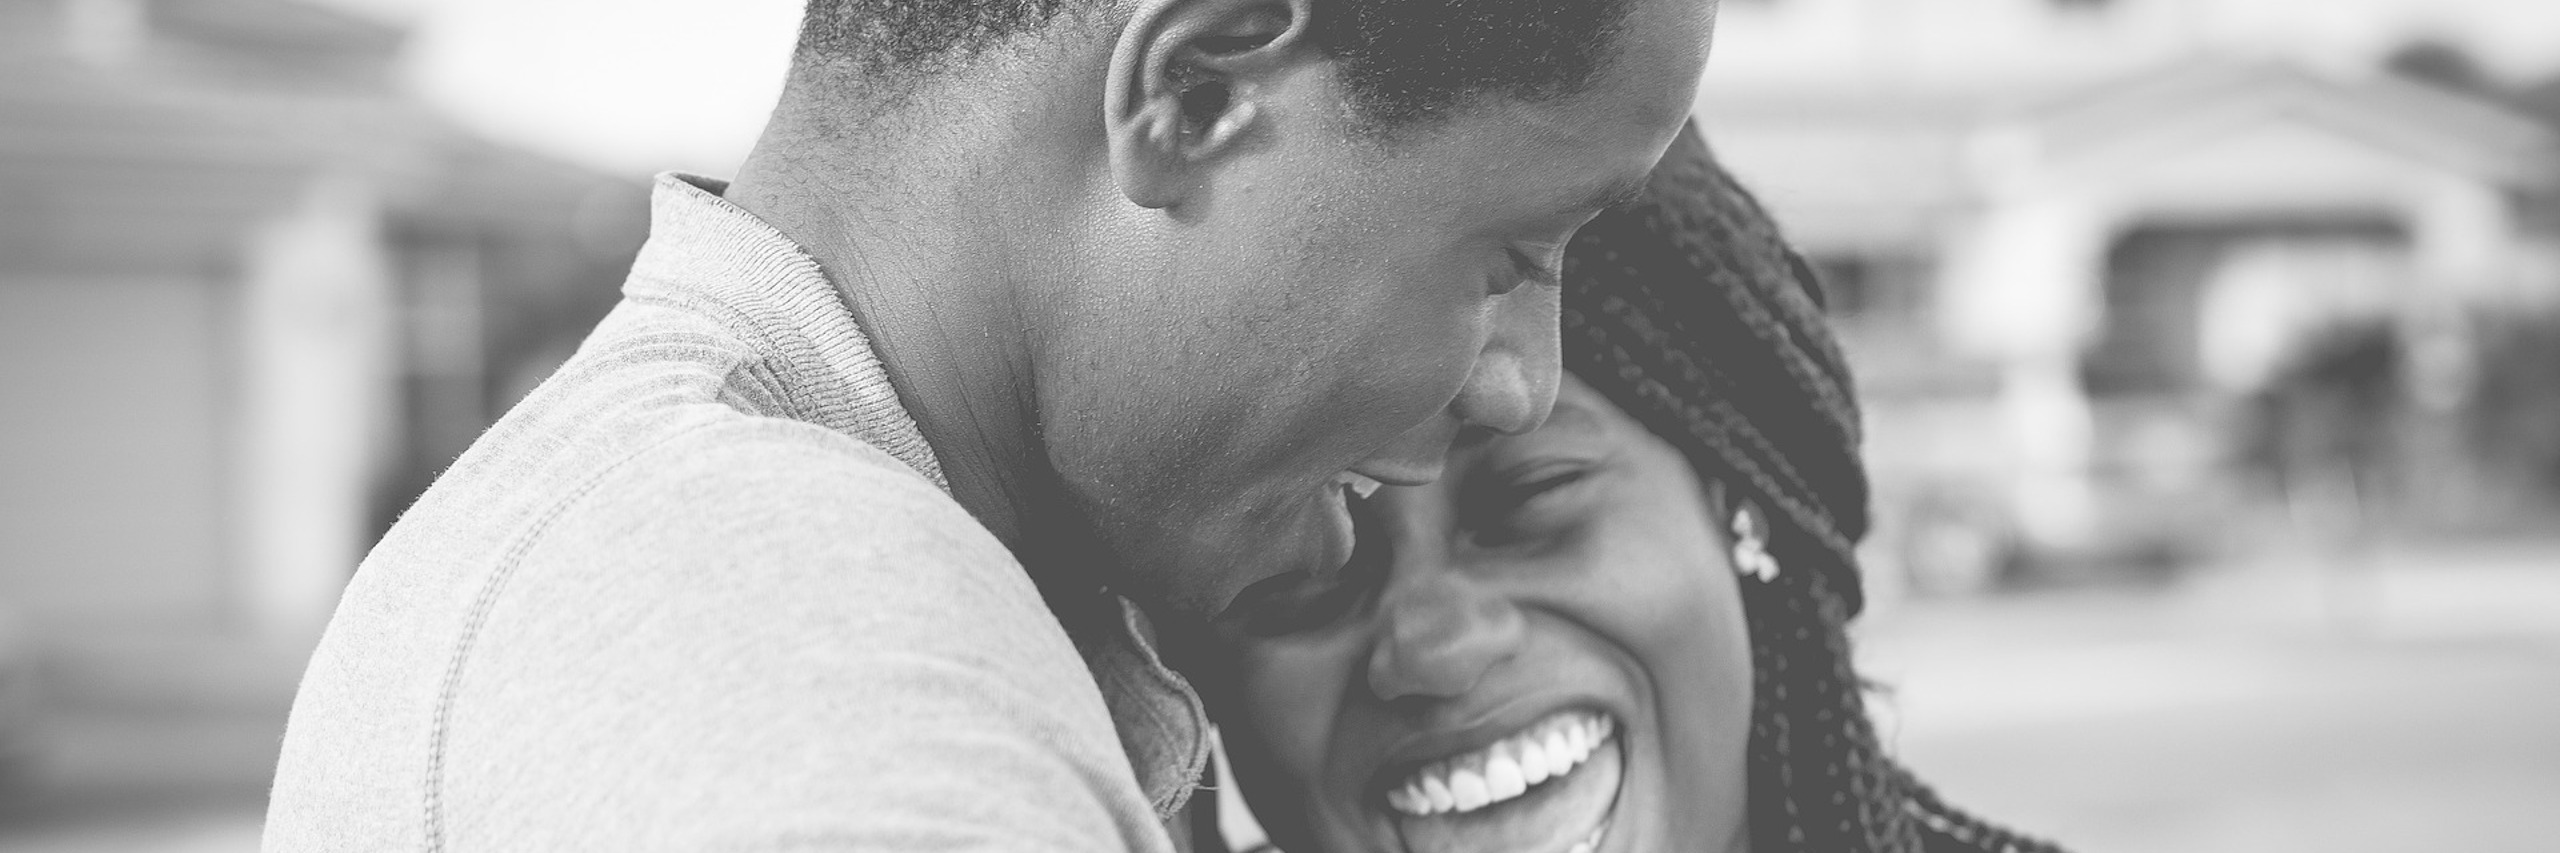
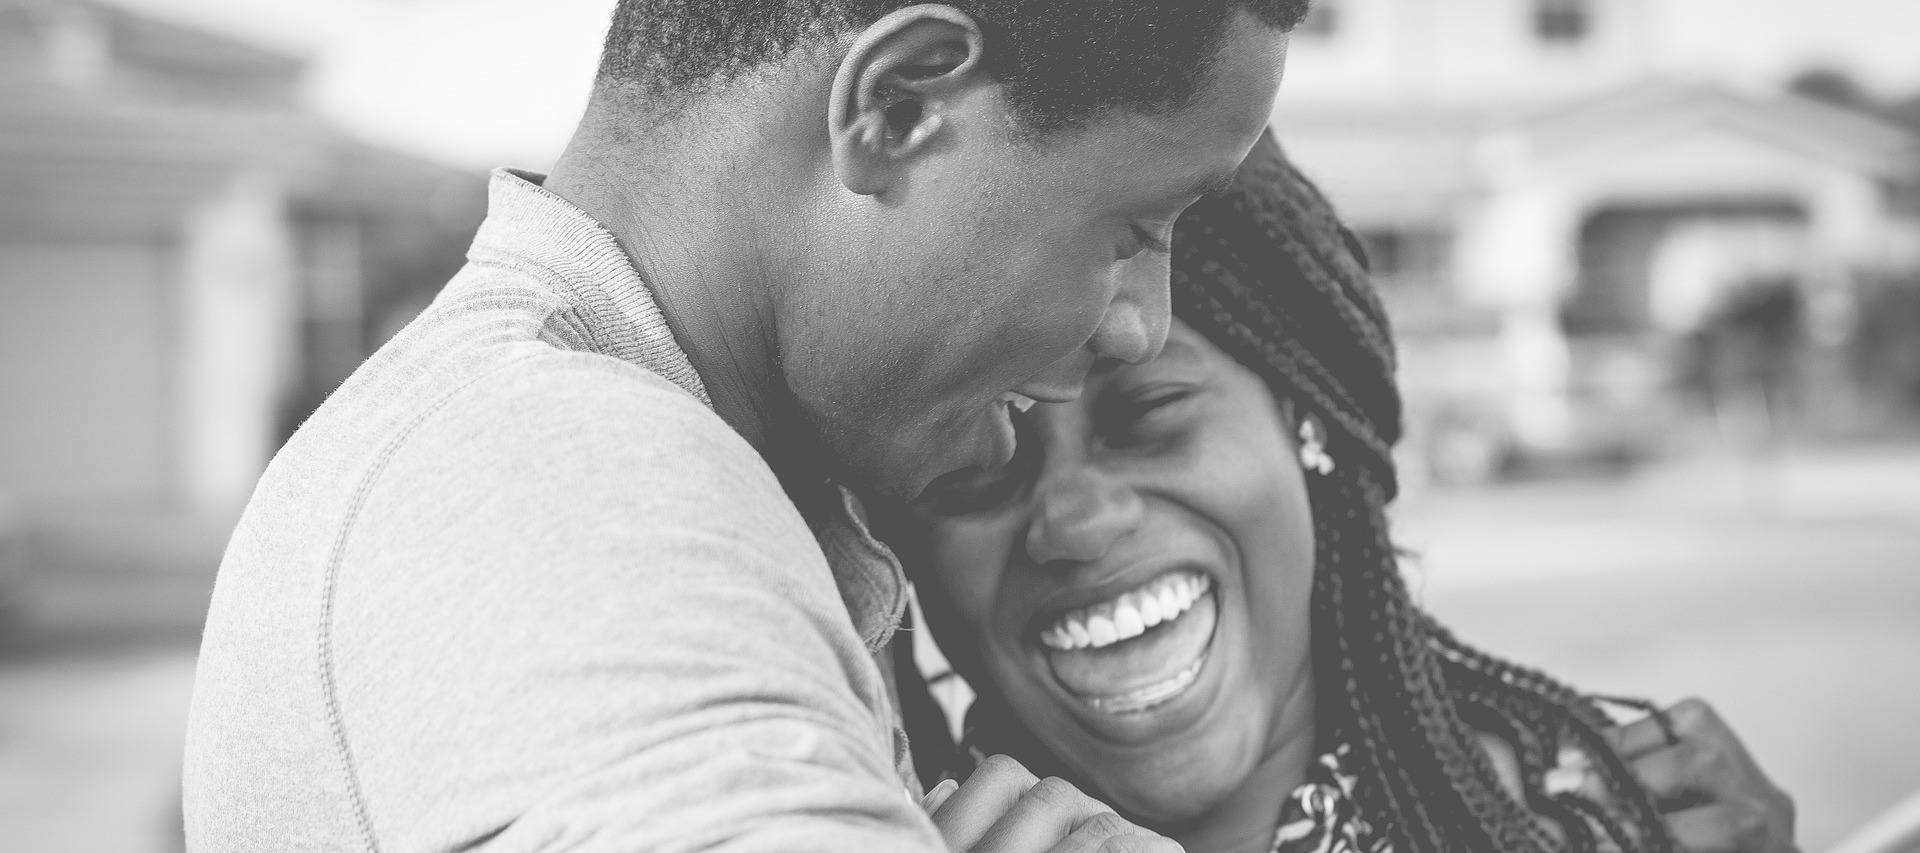
adjust jumbotron images, add typing animation

diff --git a/index.html b/index.html
@@ -9,13 +9,14 @@
         integrity="sha384-ggOyR0iXCbMQv3Xipma34MD+dH/1fQ784/j6cY/iJTQUOhcWr7x9JvoRxT2MZw1T" crossorigin="anonymous">
     <link rel="stylesheet" href="https://cdnjs.cloudflare.com/ajax/libs/font-awesome/5.10.2/css/all.min.css">
     <link href="css/hover.css" rel="stylesheet" media="all">
-    <link href="https://fonts.googleapis.com/css?family=BioRhyme:400,700&display=swap" rel="stylesheet"> 
+    <link href="https://fonts.googleapis.com/css?family=BioRhyme:400,700&display=swap" rel="stylesheet">
     <link rel="stylesheet" href="css/style.css" type="text/css">
     <title>GetHubby</title>
 </head>
 
 <body>
     <!-- navbar -->
+
     <nav class="navbar navbar-dark bg-dark navbar-expand-sm">
         <a href="#" class="navbar-brand">GetHubby</a>
         <!-- toggler -->
@@ -41,67 +42,85 @@
         <a href="#" class="btn btn-info d-none d-md-block">Member Login</a>
     </nav>
     <div class="container-fluid">
+        
+            <!-- jumbotron/cta -->
+            <section class="cta jumbotron text-center">
+                <!-- carousel -->
+                <div class="carousel-wrapper">
+                    <div id="carouselExampleCaptions" class="carousel slide" data-ride="carousel">
+                        <ol class="carousel-indicators">
+                            <li data-target="#carouselExampleCaptions" data-slide-to="0" class="active"></li>
+                            <li data-target="#carouselExampleCaptions" data-slide-to="1"></li>
+                            <li data-target="#carouselExampleCaptions" data-slide-to="2"></li>
+                        </ol>
+                        <div class="carousel-inner">
+                            <div class="carousel-item active">
+                                <div class="overlay"></div>
+                                <img src="images/black-and-white-2590810_1920-crop.jpg" class="d-block" alt="...">
+                                <div class="carousel-caption d-none d-md-block">
+                                    <div class="type-anim">
+                                        <div class="anim-line-start">Ready to make a</div>
+                                        <div class="anim-word"><code>commit</code></div>
+                                        <div class="anim-line-end">?</div>
+                                    </div>
+                                    <p class="lead">Join now to meet other eager developers!</p>
+                                    <a href="#"><button class="btn btn-success btn-lg">Sign-Up</button></a>
+                                </div>
+                                <a href="#about-section" class="hvr-icon-down d-none d-med-block"><i
+                                        class="fas fa-arrow-down hvr-icon"></i></a>
+                            </div>
+                            <div class="carousel-item">
+                                <div class="overlay"></div>
+                                <img src="images/couple-1210023_1920-crop.jpg" class="d-block" alt="...">
+                                <div class="carousel-caption d-none d-md-block">
+                                    <div class="type-anim">
+                                        <div class="anim-line-start">Want to get a new relationship</div>
+                                        <div class="anim-word"><code>status</code></div>
+                                        <div class="anim-line-end">?</div>
+                                    </div>
+                                    <p class="lead">Join now to meet other eager developers!</p>
+                                    <a href="#"><button class="btn btn-success btn-lg">Sign-Up</button></a>
 
-        <!-- jumbotron/cta -->
-        <section class="cta jumbotron text-center">
-            <!-- carousel -->
-            <div class="carousel-wrapper">
-                <div id="carouselExampleCaptions" class="carousel slide" data-ride="carousel">
-                    <ol class="carousel-indicators">
-                        <li data-target="#carouselExampleCaptions" data-slide-to="0" class="active"></li>
-                        <li data-target="#carouselExampleCaptions" data-slide-to="1"></li>
-                        <li data-target="#carouselExampleCaptions" data-slide-to="2"></li>
-                    </ol>
-                    <div class="carousel-inner">
-                        <div class="carousel-item active">
-                            <div class="overlay"></div>
-                            <img src="images/black-and-white-2590810_1920-crop.jpg" class="d-block" alt="...">
-                            <div class="carousel-caption d-none d-md-block">
-                                <h1>Ready to make your next <code>commit</code>?</h1>
-                                <p class="lead">Join now to meet other eager developers!</p>
-                                <a href="#"><button class="btn btn-success btn-lg">Sign-Up</button></a>
-                                
+                                </div>
+                                <a href="#about-section" class="hvr-icon-down d-none d-md-block"><i
+                                        class="fas fa-arrow-down hvr-icon"></i></a>
                             </div>
-                            <a href="#about-section" class="hvr-icon-down"><i class="fas fa-arrow-down hvr-icon"></i></a>
-                        </div>
-                        <div class="carousel-item">
-                            <div class="overlay"></div>
-                            <img src="images/couple-1210023_1920-crop.jpg" class="d-block" alt="...">
-                            <div class="carousel-caption d-none d-md-block">
-                                <h1>Want to get a new relationship <code>status</code>?</h1>
-                                <p class="lead">Join now to meet other eager developers!</p>
-                                <a href="#"><button class="btn btn-success btn-lg">Sign-Up</button></a>
-                                
+                            <div class="carousel-item">
+                                <div class="overlay"></div>
+                                <img src="images/diego-rezende-CFIv79QxPjA-unsplash_greyscale-crop.jpg" class="d-block"
+                                    alt="...">
+                                <div class="carousel-caption d-none d-md-block">
+                                    <div class="type-anim">
+                                        <div class="anim-line-start">Looking to</div>
+                                        <div class="anim-word-short"><code>fetch</code></div>
+                                        <div class="anim-line-end">that special someone?</div>
+                                    </div>
+                                    <p class="lead">Join now to meet other eager developers!</p>
+                                    <a href="#"><button class="btn btn-success btn-lg">Sign-Up</button></a>
+
+                                </div>
+                                <a href="#about-section" class="hvr-icon-down d-none d-med-block"><i
+                                        class="fas fa-arrow-down hvr-icon"></i></a>
                             </div>
-                            <a href="#about-section" class="hvr-icon-down"><i class="fas fa-arrow-down hvr-icon"></i></a>
                         </div>
-                        <div class="carousel-item">
-                            <div class="overlay"></div>
-                            <img src="images/diego-rezende-CFIv79QxPjA-unsplash_greyscale-crop.jpg"
-                                class="d-block" alt="...">
-                            <div class="carousel-caption d-none d-md-block">
-                                <h1>Looking to <code>add</code> that special someone to your life?</h1>
-                                <p class="lead">Join now to meet other eager developers!</p>
-                                <a href="#"><button class="btn btn-success btn-lg">Sign-Up</button></a>
-                                
-                            </div>
-                            <a href="#about-section" class="hvr-icon-down"><i class="fas fa-arrow-down hvr-icon"></i></a>
-                        </div>
+                        <a class="carousel-control-prev" href="#carouselExampleCaptions" role="button"
+                            data-slide="prev">
+                            <span class="carousel-control-prev-icon" aria-hidden="true"></span>
+                            <span class="sr-only">Previous</span>
+                        </a>
+                        <a class="carousel-control-next" href="#carouselExampleCaptions" role="button"
+                            data-slide="next">
+                            <span class="carousel-control-next-icon" aria-hidden="true"></span>
+                            <span class="sr-only">Next</span>
+                        </a>
                     </div>
-                    <a class="carousel-control-prev" href="#carouselExampleCaptions" role="button" data-slide="prev">
-                        <span class="carousel-control-prev-icon" aria-hidden="true"></span>
-                        <span class="sr-only">Previous</span>
-                    </a>
-                    <a class="carousel-control-next" href="#carouselExampleCaptions" role="button" data-slide="next">
-                        <span class="carousel-control-next-icon" aria-hidden="true"></span>
-                        <span class="sr-only">Next</span>
-                    </a>
                 </div>
-            </div>
-            <!-- /carousel -->
+                <!-- /carousel -->
 
 
-        </section>
+
+            </section>
+        
         <hr>
 
         <!-- about -->
@@ -157,8 +176,8 @@
                 <blockquote class="blockquote couple-1 mt-2 col-md-6 col-lg-4">
                     <div class="media">
                         <div class="d-none d-sm-block">
-                            <img src="images/adults-bald-bouquet-1875420_sq.jpg" alt=""
-                                class="rounded-circle mr-3" height=100 width=100>
+                            <img src="images/adults-bald-bouquet-1875420_sq.jpg" alt="" class="rounded-circle mr-3"
+                                height=100 width=100>
                         </div>
                         <div class="media-body">
                             <h3>John and Ellen</h3>
@@ -171,8 +190,8 @@
                 <blockquote class="blockquote couple-2 mt-2 col-md-6 col-lg-4">
                     <div class="media">
                         <div class="d-none d-sm-block">
-                            <img src="images/affection-beach-couple-2833389_sq.jpg" alt=""
-                                class="rounded-circle mr-3" height=100 width=100>
+                            <img src="images/affection-beach-couple-2833389_sq.jpg" alt="" class="rounded-circle mr-3"
+                                height=100 width=100>
                         </div>
                         <div class="media-body">
                             <h3>Susan and Gordon</h3>
@@ -231,6 +250,7 @@
             </div>
         </section>
     </div>
+
 
     <!-- scripts -->
     <script src="https://code.jquery.com/jquery-3.3.1.slim.min.js"

diff --git a/css/style.css b/css/style.css
@@ -4,6 +4,7 @@ html {
     scroll-behavior: smooth;
 }
 
+
 /* GLOBAL */
 
 h2 {
@@ -13,6 +14,7 @@ h2 {
 /* NAVBAR */
 .navbar {
     font-family: 'BioRhyme', serif;
+
 }
 
 /* CAROUSEL */
@@ -26,10 +28,16 @@ h2 {
     padding: 0;
 }
 
+.carousel img {
+    width: 100%;
+    height: 100%;
+}
+
 .carousel-caption {
     top: 40%;
     bottom: auto;
-    z-index: 100;
+    z-index: 500;
+    
 }
 
 .overlay {
@@ -38,9 +46,9 @@ h2 {
     position: absolute;
     top: 5;
     left: 0;
-    width: 100vw;
-    height: 100vh;
-    z-index: 1;
+    width: 100%;
+    height: 100%;
+    z-index: 0;
 }
 
 .hvr-icon-down {
@@ -54,31 +62,36 @@ h2 {
 }
 
 @-webkit-keyframes hvr-icon-down {
+
     0%,
-      50%,
-      100% {
-      -webkit-transform: translateY(0);
-      transform: translateY(0);
+    50%,
+    100% {
+        -webkit-transform: translateY(0);
+        transform: translateY(0);
     }
+
     25%,
-      75% {
-      -webkit-transform: translateY(6px);
-      transform: translateY(6px);
+    75% {
+        -webkit-transform: translateY(6px);
+        transform: translateY(6px);
     }
-  }
-  @keyframes hvr-icon-down {
+}
+
+@keyframes hvr-icon-down {
+
     0%,
-      50%,
-      100% {
-      -webkit-transform: translateY(0);
-      transform: translateY(0);
+    50%,
+    100% {
+        -webkit-transform: translateY(0);
+        transform: translateY(0);
     }
+
     25%,
-      75% {
-      -webkit-transform: translateY(6px);
-      transform: translateY(6px);
+    75% {
+        -webkit-transform: translateY(6px);
+        transform: translateY(6px);
     }
-  }
+}
 
 .hvr-icon-down {
     display: inline-block;
@@ -86,8 +99,9 @@ h2 {
     -webkit-transform: perspective(1px) translateZ(0);
     transform: perspective(1px) translateZ(0);
     box-shadow: 0 0 1px rgba(0, 0, 0, 0);
-  }
-  .hvr-icon-down .hvr-icon {
+}
+
+.hvr-icon-down .hvr-icon {
     -webkit-transform: translateZ(0);
     transform: translateZ(0);
     -webkit-animation-name: hvr-icon-down;
@@ -97,16 +111,85 @@ h2 {
     -webkit-animation-timing-function: ease-out;
     animation-timing-function: ease-out;
     animation-iteration-count: infinite;
-  }
-  .hvr-icon-down:hover .hvr-icon {
+}
+
+.hvr-icon-down:hover .hvr-icon {
     color: yellow;
-  }
-
-
+}
 
 .carousel-indicators {
     top: 5%;
 }
+
+/*===========
+ TYPE ANIM
+ ============ */
+
+.type-anim {
+    display: flex;
+    font-size: 2.5rem;
+    justify-content: center;
+    padding-bottom: 1.5rem;;
+    margin: 0;
+}
+
+.anim-word {
+    background-color: black;
+    animation: 
+        type 1.2s steps(6),
+        blink-caret .5s step-end infinite;;
+    overflow: hidden;
+    white-space: nowrap;
+    margin-left: .5rem;
+    border-right: .3rem solid white;
+}
+
+.anim-word-short {
+    background-color: black;
+    animation: 
+        type-s 1.2s steps(5),
+        blink-caret .5s step-end infinite;;
+    overflow: hidden;
+    white-space: nowrap;
+    margin-left: .5rem;
+    /* margin-right: .4rem; */
+    border-right: .3rem solid white;
+}
+
+
+@keyframes type {
+    from {
+        width: 0ch;
+    }
+
+    to {
+        width: 6.2ch;
+    }
+}
+
+@keyframes type-s {
+    from {
+        width: 0ch;
+    }
+
+    to {
+        width: 5ch;
+    }
+}
+
+/* The typewriter cursor effect */
+@keyframes blink-caret {
+
+    from,
+    to {
+        border-color: transparent;
+    }
+
+    50% {
+        border-color: white;
+    }
+}
+
 
 /* ABOUT */
 
